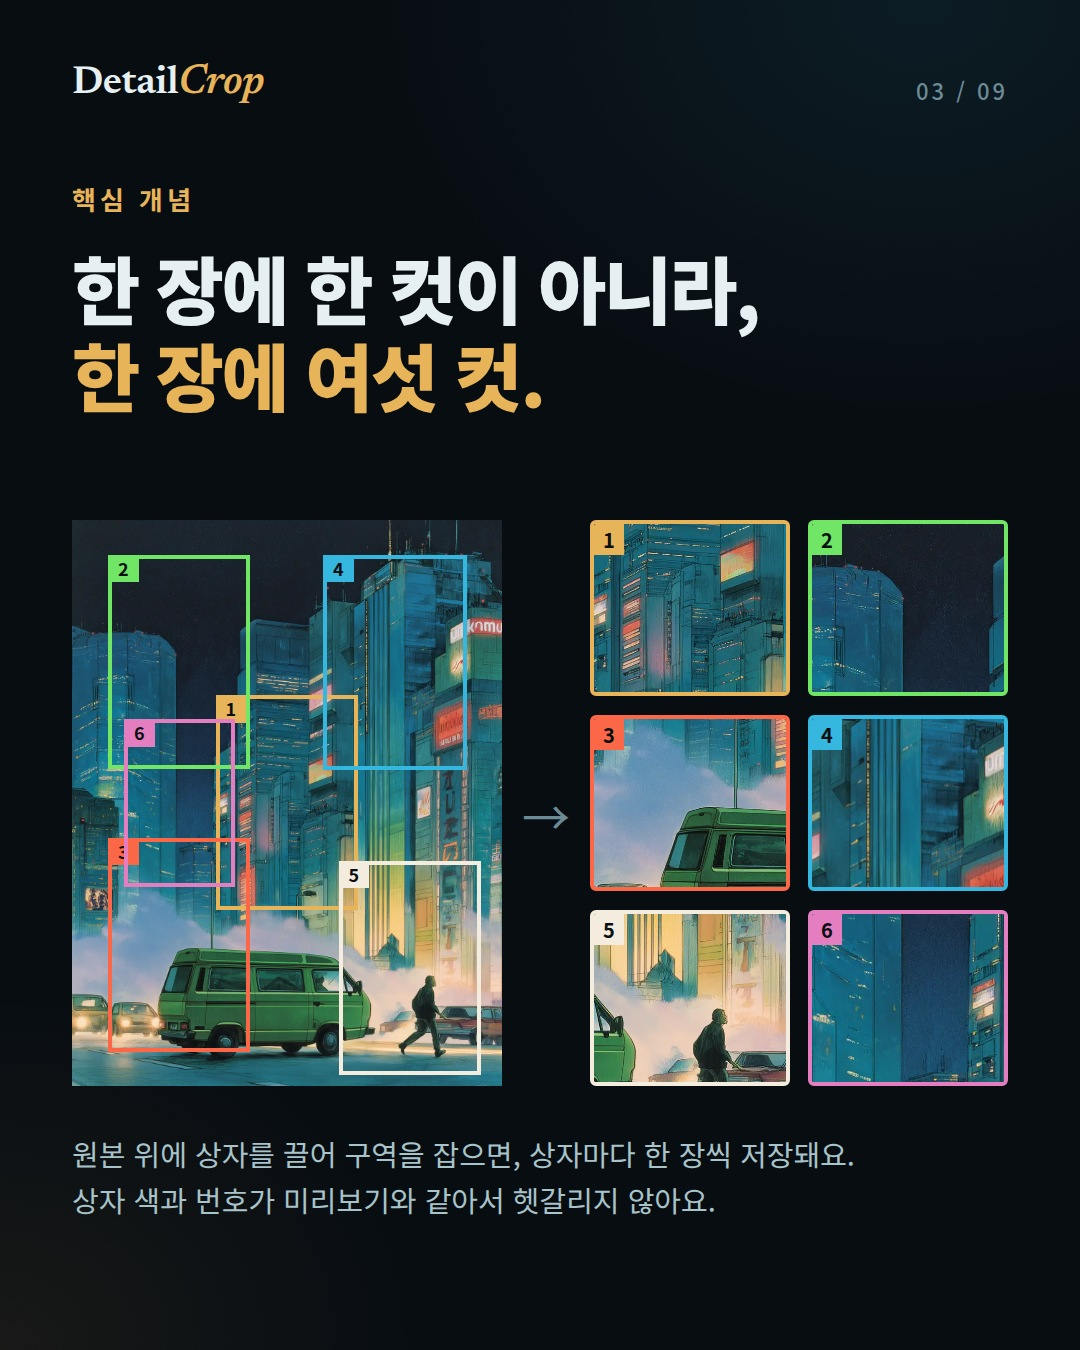
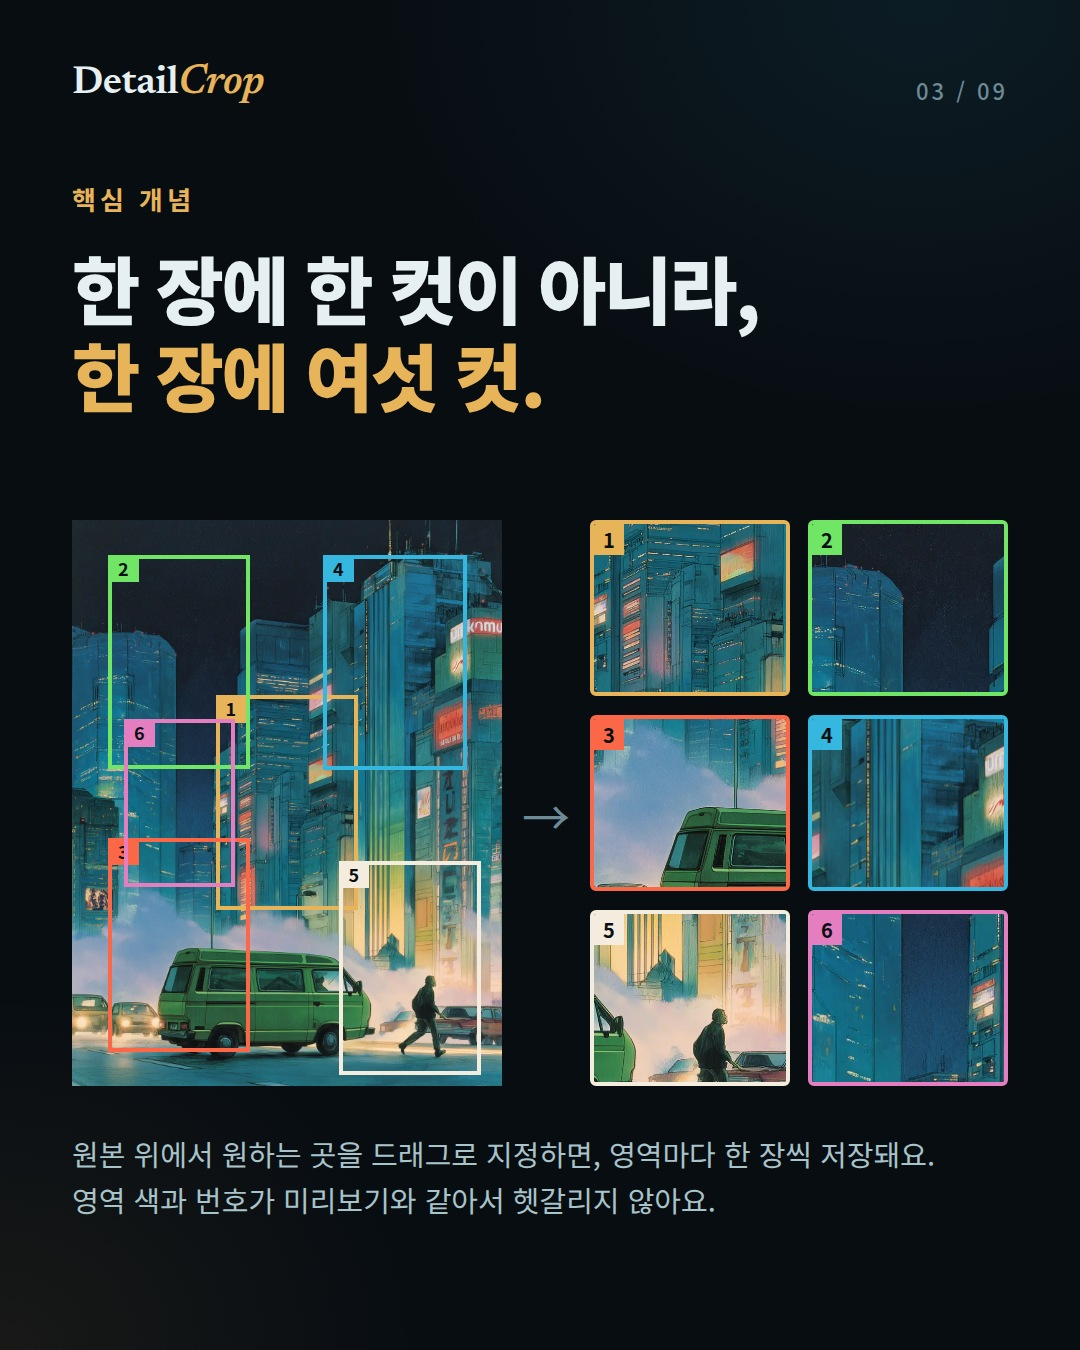
인스타그램 한국어: '상자'를 '영역'으로
Claude-Session: https://claude.ai/code/session_01B2jUqf3PpRmeykbFRLdzro

Changed region(s): [[0.1833, 0.84, 0.8556, 0.8711], [0.0611, 0.8711, 0.1222, 0.9022]]

diff --git a/marketing/instagram/README.md b/marketing/instagram/README.md
@@ -30,8 +30,8 @@
 폰 갤러리나 포토샵으로 하나하나 자르고 계신가요? ✂
 넘겨서 보세요 →
 
-디테일크롭은 사진 위에 상자만 놓으면
-상자마다 한 장씩 확대컷을 잘라주는 무료 웹 도구예요.
+디테일크롭은 사진을 올리고 원하는 부분을 드래그로 지정하면
+지정한 영역마다 한 장씩 확대컷으로 잘라주는 무료 웹 도구예요.
 
 ✔ 한 장에서 최대 6컷까지 한 번에
 ✔ 최대 200장을 같은 비율·크기·파일명으로
